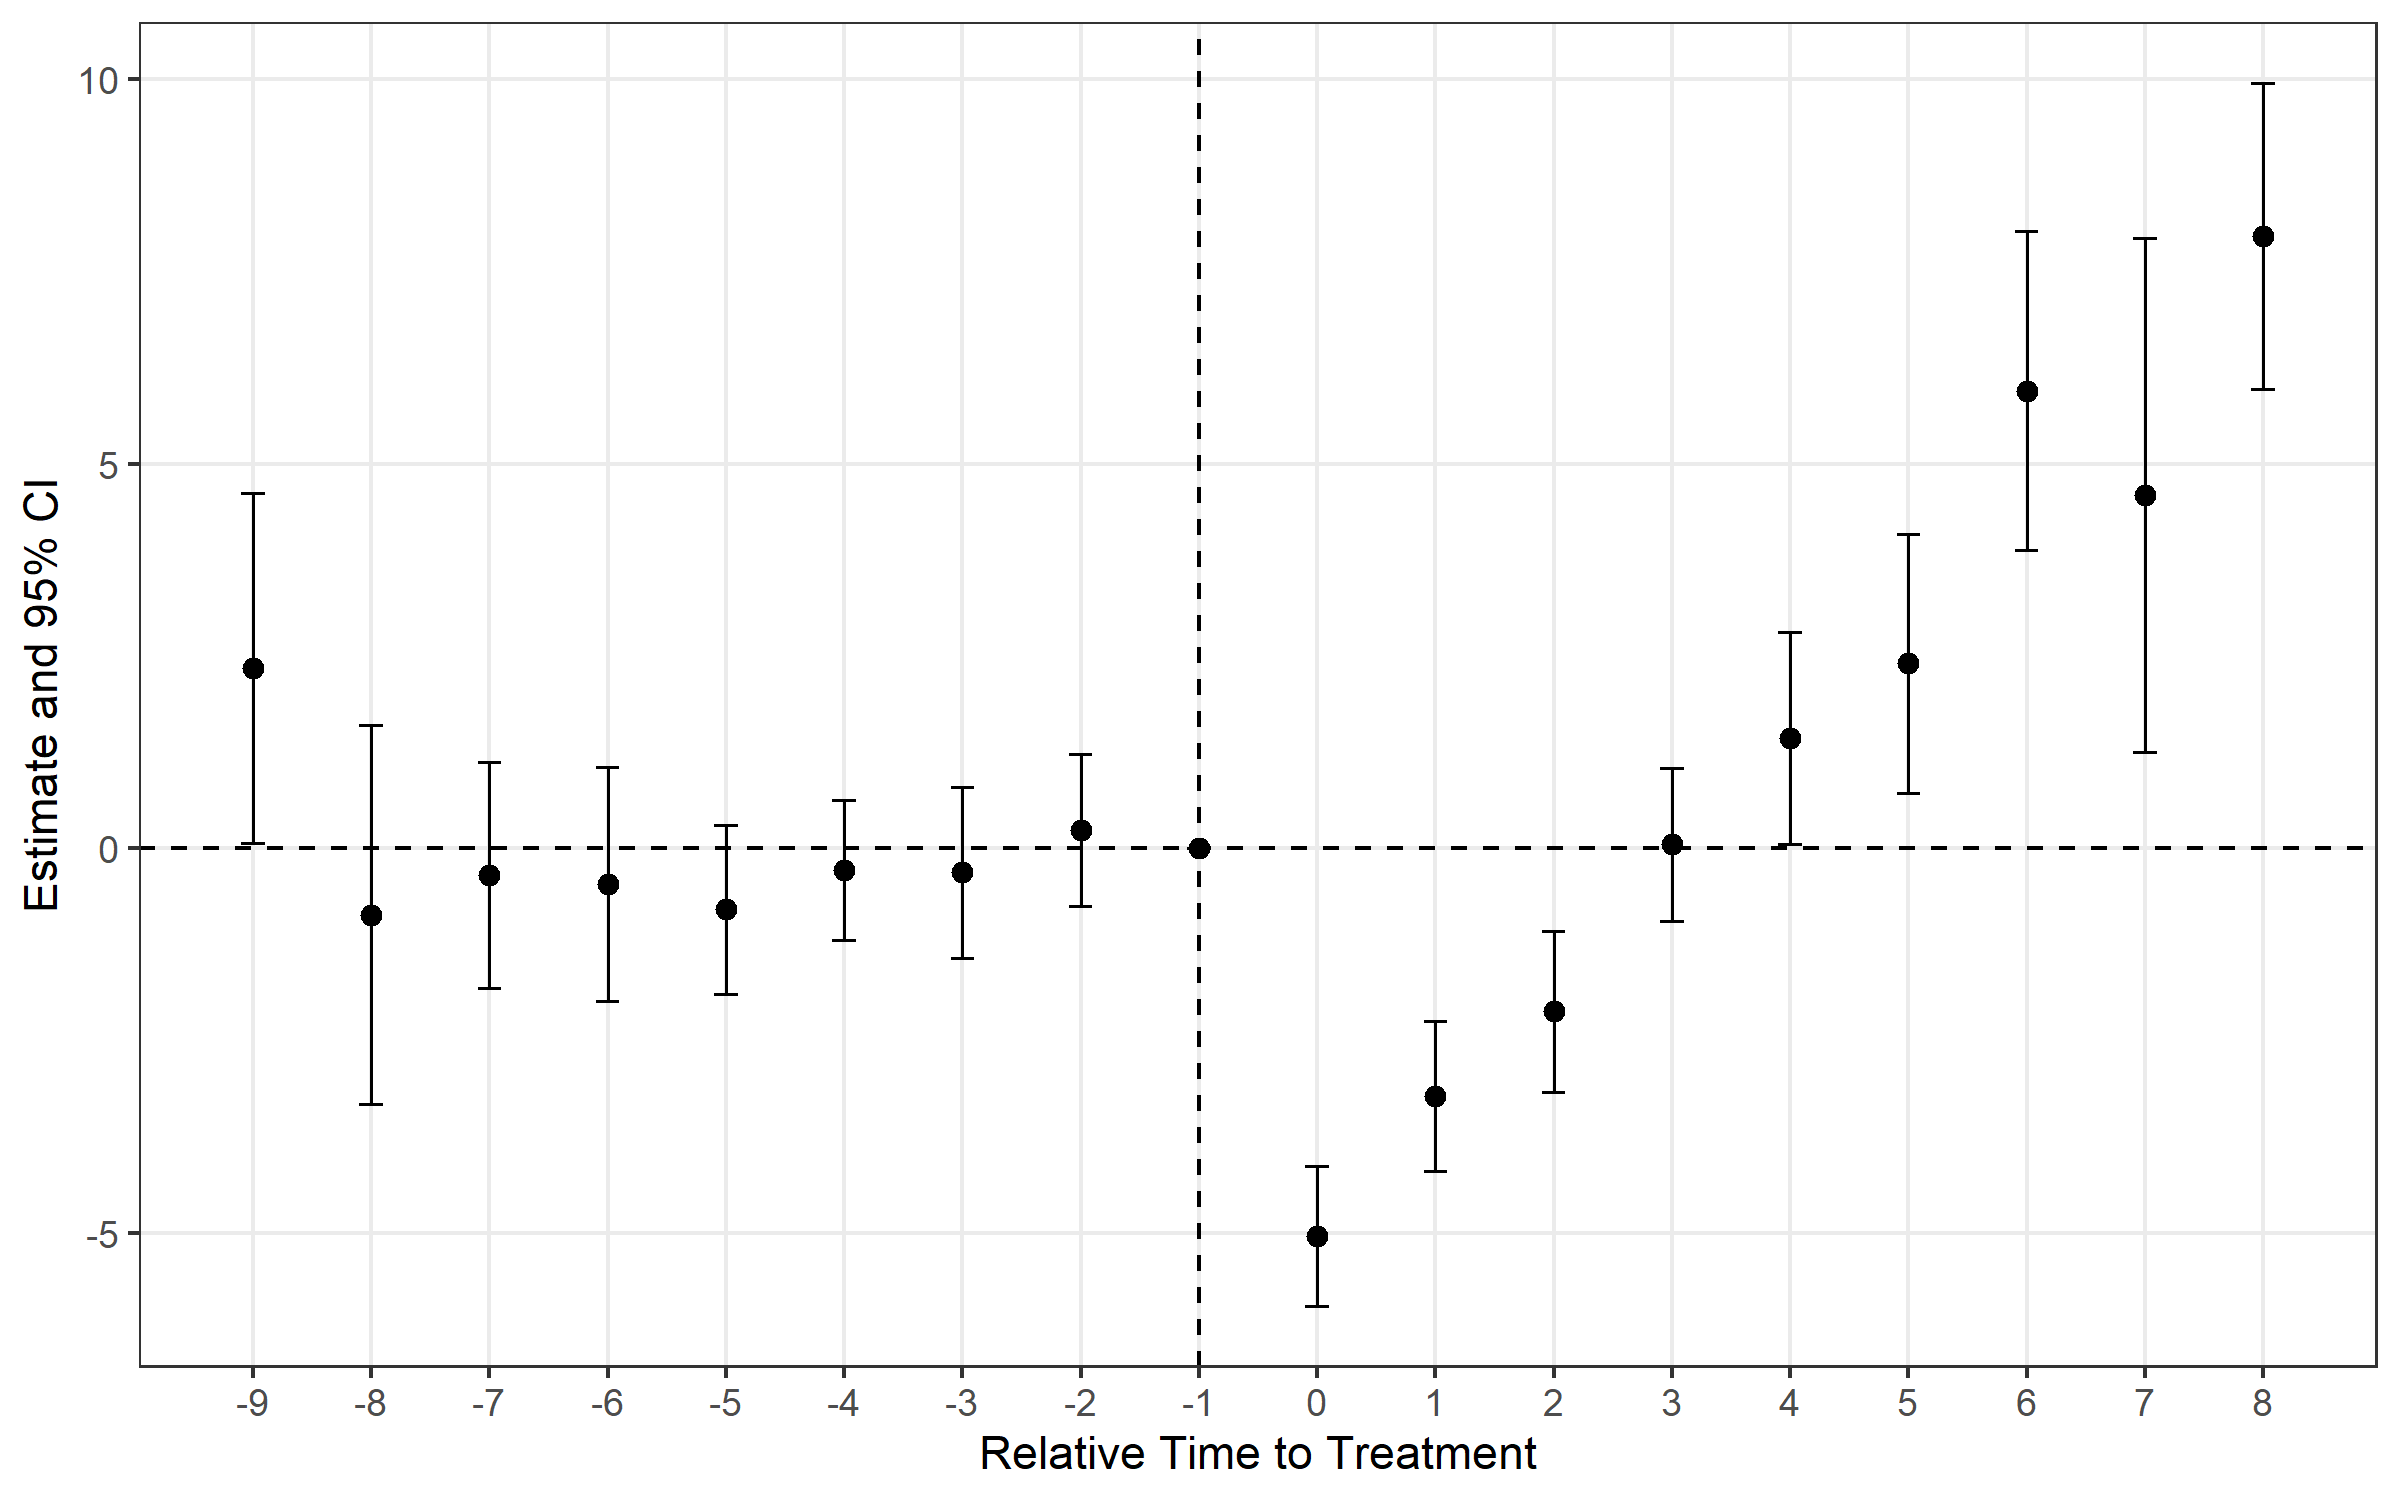
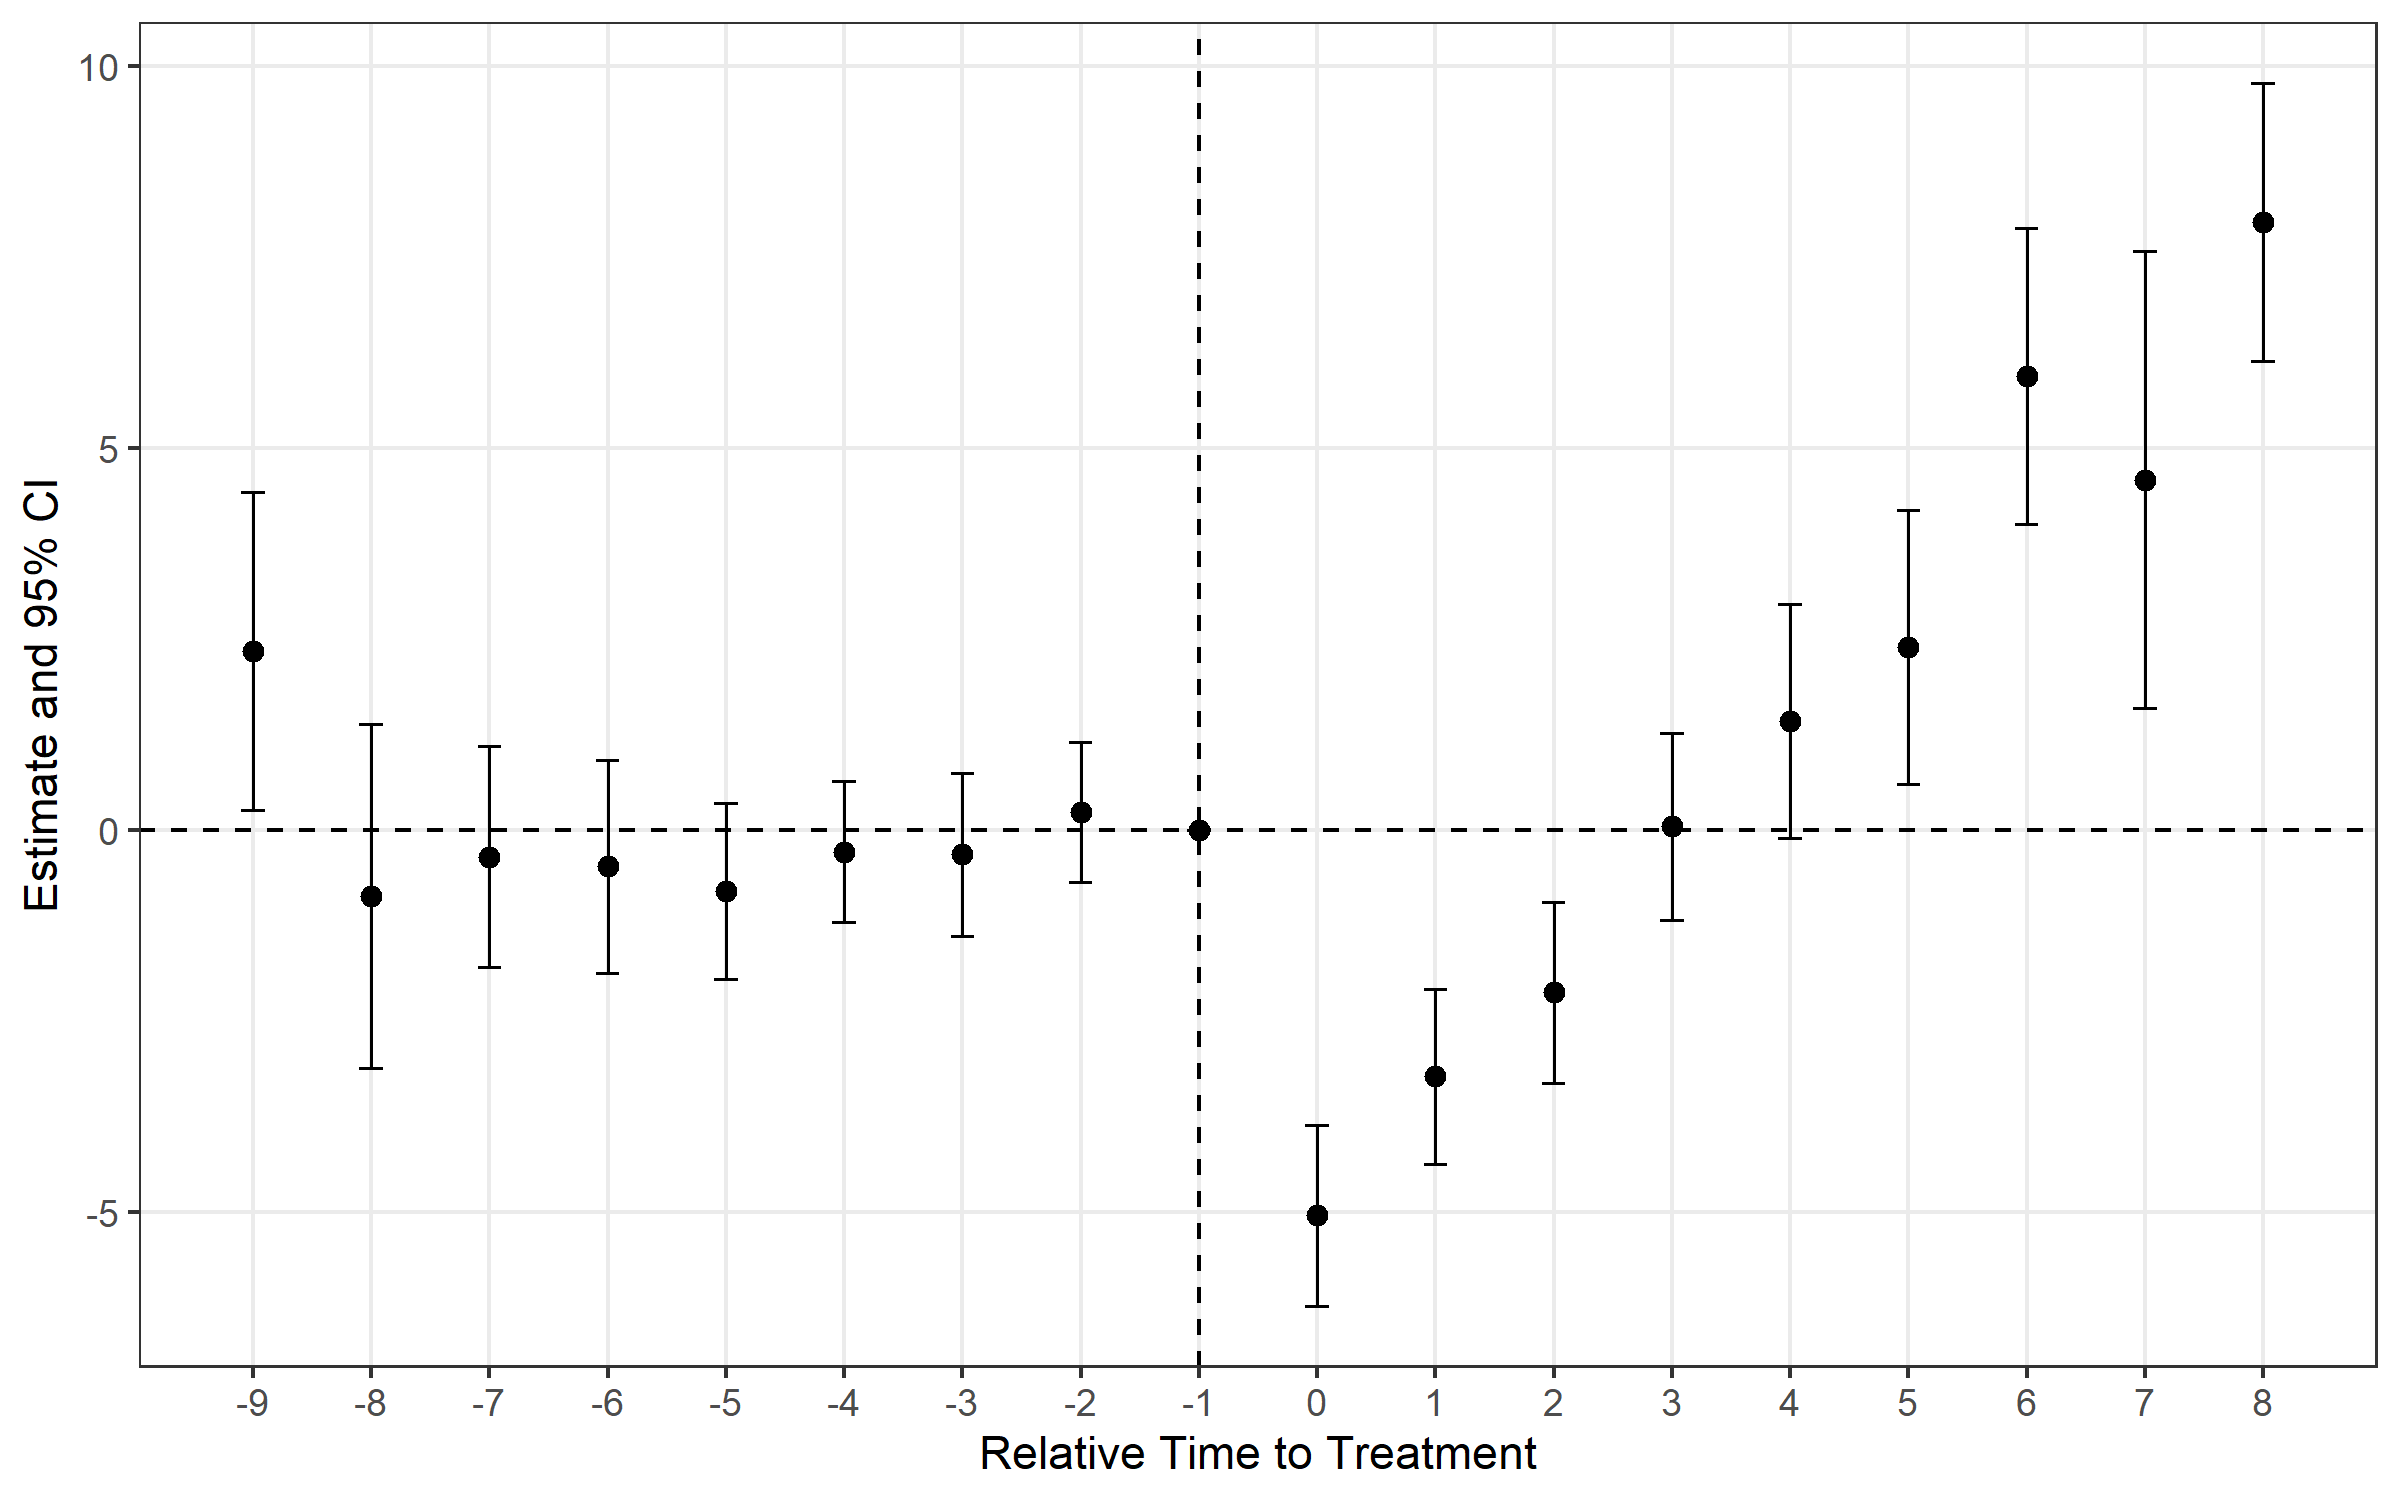
docs: document the CS and BJS standard-error fixes
Update NEWS, the att() help page and the knitted README, whose att() SE
and CS/BJS plots change with the fixes. NEWS also records the bootstrap
and BJS speedups.

diff --git a/NEWS.md b/NEWS.md
@@ -196,6 +196,22 @@ warning) and return numerically identical results.
   `NA` when no unit identifier is available.
 - `tests/testthat.R` was missing, so `R CMD check` (and the R-CMD-check CI
   jobs) never ran the test suite; it now does.
+- **CS standard errors of aggregates ignored the covariance between
+  ATT(g,t).** `event_study(estimator = "cs")` and `att(estimator = "cs")`
+  summed the squared SEs of ATT(g,t) as if they were independent. They now
+  use the influence function of each aggregate, including the estimation of
+  the cohort weights, and match `did::aggte()`. `att()` SEs were up to half
+  as large as `did`'s (overstating significance), and event-study SEs up to
+  22% larger. Point estimates are unchanged.
+- **BJS standard errors omitted the imputation step's uncertainty.** The SE
+  of `event_study(estimator = "bjs")` left out the projection of the treated
+  weights on the fixed effects (Borusyak et al. 2024, Theorem 3), so it was
+  20-30% too small; `att(estimator = "bjs")` used the naive spread of the
+  unit-time effects and was less than half of the correct value. Both now
+  match `didimputation::did_imputation()`, clustered by unit (or by
+  `cluster` in `event_study()`). Point estimates are unchanged.
+- With `bootstrap = TRUE`, the simultaneous bands for the CS event study use
+  the same influence functions as the analytic SEs.
 
 ## Performance
 
@@ -204,13 +220,17 @@ warning) and return numerically identical results.
   checks on complete data. On one machine (20 periods, never-treated units
   plus three cohorts): classic event study on 1,000,000 rows about 1.1 s;
   `estimator = "sa"` on 100,000 rows 0.3 s; `"sa"`, `"twm"` and `"bjs"` on
-  300,000 rows (row order shuffled) 1.0, 1.0 and 0.4 s; `"cs"` on 300,000
-  rows 0.1 s without and 1.3 s with the bootstrap.
+  300,000 rows (row order shuffled) 1.0, 1.0 and 0.2 s; `"cs"` on 300,000
+  rows 0.1 s without and 0.7 s with the bootstrap.
 - `contamination_weights()` solves all auxiliary regressions in one pass
   over the demeaned design instead of one regression per cohort-period cell
   (30,000 rows in 0.07 s).
 - CS: ATT(g, t) and the bootstrap influence functions are computed on a
-  dense unit × period grid in C++.
+  dense unit × period grid in C++. The multiplier bootstrap no longer stores
+  the units × draws matrix of Mammen weights (about 400 MB for 50,000 units
+  and B = 999); the bands are unchanged for a given seed.
+- BJS: Step 1 converts only the distinct unit and time values to character
+  keys, and the standard errors of all horizons share one projection.
 
 ## Breaking changes
 

diff --git a/README.md b/README.md
@@ -393,8 +393,8 @@ print(att_simple)
     ## N = 950 obs | 95 units | 45 treated
     ## Panel: unit = id | time = year
     ## 
-    ##   group estimate std.error statistic  p.value conf_low_95 conf_high_95
-    ## 1    NA   -0.755     0.226     -3.35 0.000813        -1.2       -0.313
+    ##   group estimate std.error statistic p.value conf_low_95 conf_high_95
+    ## 1    NA   -0.755     0.679     -1.11   0.266       -2.09        0.576
 
 ``` r
 # Per-cohort ATT
